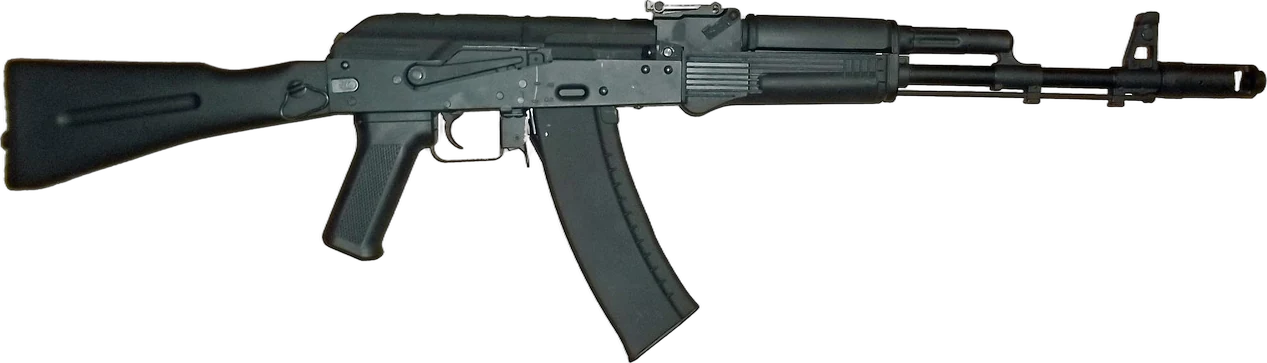
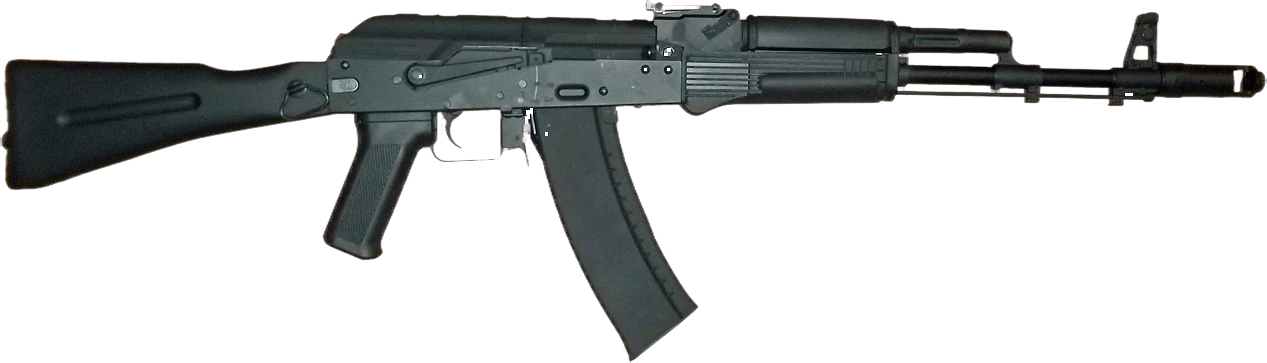
Publish portfolio

diff --git a/js/main.js b/js/main.js
@@ -311,10 +311,10 @@ async function typeLetter(span, ch, final = false) {
 }
 
 /* real AK-47 (Pixabay 872500, background removed), facing right; the muzzle sits 22.3% down the image */
-const RIFLE = { src: 'images/rifle.webp', aspect: 3.49, muzzleY: 0.223 };
-function flashAt(parent, x, y, dir) {
+const RIFLE = { src: 'images/rifle.webp', aspect: 3.49, muzzle: [0.985, 0.223], grip: [0.30, 0.55] };   // fractions of the image box
+function flashAt(parent, x, y, deg) {          // deg: direction the shot travels (0 = right, -90 = up)
   const f = document.createElement('i'); f.className = 'gun-flash'; parent.appendChild(f);
-  gsap.set(f, { left: x, top: y, xPercent: -50, yPercent: -50, rotation: dir < 0 ? 180 : 0 });
+  gsap.set(f, { left: x, top: y, xPercent: -50, yPercent: -50, rotation: deg });
   gsap.fromTo(f, { scale: 0.3, opacity: 1 }, { scale: 1.5, opacity: 0, duration: 0.2, ease: 'power2.out', onComplete: () => f.remove() });
 }
 
@@ -349,35 +349,49 @@ async function runLoader() {
   const fs = parseFloat(getComputedStyle(word).fontSize), ir = chs[3].getBoundingClientRect(), mob = innerWidth < 761;
   const capBottom = ir.top + ir.height / 2 + fs * 0.35;              // Bebas caps are ~0.7em tall
   const gunW = Math.min(fs * (mob ? 3.2 : 2.3), innerWidth * (mob ? 0.62 : 0.5)), gunH = gunW / RIFLE.aspect;
-  const gx = ir.left + ir.width / 2, gy = capBottom + fs * 0.2 + gunH / 2;
+  // the rifle turns about its grip (like a shooter would); O = the grip's screen point, under the I
+  const [pgx, pgy] = RIFLE.grip, Ox = ir.left + ir.width / 2, Oy = capBottom + fs * 0.25 + gunH * pgy;
+  const gx = Ox + (0.5 - pgx) * gunW, gy = Oy + (0.5 - pgy) * gunH;   // box centre that puts the grip on O
   const gun = document.createElement('div'); gun.className = 'gun';
   gun.innerHTML = `<img src="${RIFLE.src}" alt="" width="1267" height="363">`; gun.style.width = gunW + 'px';
   loader.appendChild(gun);
-  gsap.set(gun, { xPercent: -50, yPercent: -50, x: gx, y: -gunH * 2, rotation: -22 });
+  gsap.set(gun, { xPercent: -50, yPercent: -50, transformOrigin: `${pgx * 100}% ${pgy * 100}%`, x: gx, y: -gunH * 2, rotation: -22 });
   await gsap.to(gun, { y: gy, rotation: 0, duration: 0.6, ease: 'power2.in' });          // falls
   gsap.fromTo(loader, { y: 8 }, { y: 0, duration: 0.25, ease: 'power3.out' });
   await gsap.to(gun, { keyframes: [{ y: gy - gunH * 0.35, rotation: 4, duration: 0.13, ease: 'power2.out' }, { y: gy, rotation: 0, duration: 0.2, ease: 'bounce.out' }] });
+  const D2R = Math.PI / 180;
+  const ml = [(RIFLE.muzzle[0] - pgx) * gunW, (RIFLE.muzzle[1] - pgy) * gunH];       // muzzle relative to the grip, unturned
+  // aim: rotate about the grip so the barrel line (ml[1] above the grip) runs through letter i, then fire it out of the muzzle
   const fire = async (i, dir) => {
-    const gr = gun.getBoundingClientRect(), mx = dir > 0 ? gr.right - gr.width * 0.02 : gr.left + gr.width * 0.02, my = gr.top + gr.height * RIFLE.muzzleY;
-    const s = chs[i], r = s.getBoundingClientRect();
+    const s = chs[i], r = s.getBoundingClientRect(), tx = r.left + r.width / 2 - Ox, ty = r.top + r.height / 2 - Oy;
+    const dist = Math.hypot(tx, ty), off = -ml[1];
+    const th = Math.atan2(ty, tx) / D2R + dir * Math.asin(Math.min(1, off / dist)) / D2R;   // shot direction
+    const rot = ((dir > 0 ? th : th - 180) + 540) % 360 - 180;
+    await gsap.to(gun, { rotation: rot, duration: 0.13, ease: 'power2.out' });
+    const c = Math.cos(rot * D2R), n = Math.sin(rot * D2R), lx = dir * ml[0], ly = ml[1];
+    const mx = Ox + lx * c - ly * n, my = Oy + lx * n + ly * c;
     s.style.opacity = 1; Sound.type();
-    flashAt(loader, mx, my, dir);
-    gsap.fromTo(gun, { x: gx - dir * gunW * 0.06, rotation: -dir * 4 }, { x: gx, rotation: 0, duration: 0.24, ease: 'power3.out' });   // recoil
+    flashAt(loader, mx, my, th);
+    const k = gunW * 0.04, ta = th * D2R;
+    gsap.fromTo(gun, { x: gx - Math.cos(ta) * k, y: gy - Math.sin(ta) * k, rotation: rot - dir * 3 }, { x: gx, y: gy, rotation: rot, duration: 0.24, ease: 'power3.out' });   // recoil
     gsap.fromTo(loader, { x: rand(-6, 6), y: rand(-5, 5) }, { x: 0, y: 0, duration: 0.2, ease: 'power3.out' });                        // shake
     await gsap.fromTo(s, { x: mx - (r.left + r.width / 2), y: my - (r.top + r.height / 2), scaleX: 1.8, scaleY: 0.5, filter: 'blur(5px)' },
       { x: 0, y: 0, scaleX: 1, scaleY: 1, filter: 'blur(0px)', duration: 0.2, ease: 'power4.out' });
     gsap.fromTo(s, { filter: 'brightness(2.4)' }, { filter: 'brightness(1)', duration: 0.35 });
     await wait(0.07);
   };
-  await gsap.to(gun, { scaleX: -1, duration: 0.22, ease: 'power2.inOut' });               // face left
+  await gsap.to(gun, { scaleX: -1, duration: 0.22, ease: 'power2.inOut' });               // turn left (about the grip)
   for (const i of [0, 1, 2]) await fire(i, -1);
-  await gsap.to(gun, { scaleX: 1, duration: 0.24, ease: 'power2.inOut' });                // face right
+  await gsap.to(gun, { scaleX: 1, rotation: 0, duration: 0.26, ease: 'power2.inOut' });   // turn right
   for (const i of [7, 6, 5, 4]) await fire(i, 1);
-  // the blaster stands up and becomes the real I
-  const ir2 = chs[3].getBoundingClientRect();
-  await gsap.to(gun, { x: ir2.left + ir2.width / 2, y: ir2.top + ir2.height / 2, rotation: -90, scaleX: (fs * 0.72) / gunW, scaleY: (fs * 0.72) / gunW * 0.8, duration: 0.42, ease: 'power3.inOut' });
+  // the rifle stands up (muzzle up), shrinks into the I's slot and becomes the real I
+  const ir2 = chs[3].getBoundingClientRect(), icx = ir2.left + ir2.width / 2, icy = ir2.top + ir2.height / 2;
+  const sx = (fs * 0.72) / gunW, sy = sx * 0.8;
+  // origin at the grip, rotation -90 maps (u,v) -> (v,-u): solve the box translate so the rifle's visual centre sits on the I
+  const fx = icx + (0.5 - pgx) * gunW - (0.5 - pgy) * gunH * sy, fy = icy + (0.5 - pgy) * gunH + (0.5 - pgx) * gunW * sx;
+  await gsap.to(gun, { x: fx, y: fy, rotation: -90, scaleX: sx, scaleY: sy, duration: 0.42, ease: 'power3.inOut' });
   chs[3].style.opacity = 1; Sound.type();
-  flashAt(loader, ir2.left + ir2.width / 2, ir2.top + ir2.height / 2, 1);
+  flashAt(loader, icx, icy, -90);
   gsap.to(gun, { opacity: 0, duration: 0.16, onComplete: () => gun.remove() });
   await gsap.fromTo(chs[3], { filter: 'brightness(3)', scale: 1.25 }, { filter: 'brightness(1)', scale: 1, duration: 0.4, ease: 'power3.out' });
   await wait(0.35);

diff --git a/index.html b/index.html
@@ -14,7 +14,7 @@
 <link rel="preconnect" href="https://fonts.googleapis.com">
 <link rel="preconnect" href="https://fonts.gstatic.com" crossorigin>
 <link href="https://fonts.googleapis.com/css2?family=Archivo:wdth,wght@62..125,100..900&family=Geist:wght@300..700&family=Geist+Mono:wght@400;500&family=Instrument+Serif:ital@0;1&family=Bebas+Neue&display=swap" rel="stylesheet">
-<link rel="stylesheet" href="css/style.css?v=11">
+<link rel="stylesheet" href="css/style.css?v=12">
 <script type="importmap">{"imports":{"three":"https://cdn.jsdelivr.net/npm/three@0.169.0/build/three.module.js"}}</script>
 </head>
 <body class="is-loading">
@@ -203,6 +203,6 @@
 <script src="https://cdnjs.cloudflare.com/ajax/libs/gsap/3.12.5/gsap.min.js"></script>
 <script src="https://cdnjs.cloudflare.com/ajax/libs/gsap/3.12.5/ScrollTrigger.min.js"></script>
 <script src="https://unpkg.com/lenis@1.1.13/dist/lenis.min.js"></script>
-<script type="module" src="js/main.js?v=13"></script>
+<script type="module" src="js/main.js?v=15"></script>
 </body>
 </html>

diff --git a/css/style.css b/css/style.css
@@ -286,6 +286,6 @@ img{display:block;max-width:100%}
 /* intro blaster */
 .gun{position:absolute;left:0;top:0;z-index:3;pointer-events:none;will-change:transform}
 .gun img{display:block;width:100%;height:auto;
-  filter:brightness(1.9) contrast(1.15) drop-shadow(0 0 1px rgba(255,255,255,.75)) drop-shadow(0 0 10px rgba(255,255,255,.18)) drop-shadow(0 10px 24px rgba(0,0,0,.8))}
+  filter:brightness(1.12) drop-shadow(0 0 1px rgba(255,255,255,.4)) drop-shadow(0 0 18px rgba(255,255,255,.1))}
 .gun-flash{position:absolute;left:0;top:0;z-index:4;width:clamp(40px,5vw,90px);height:clamp(22px,2.6vw,46px);border-radius:50%;pointer-events:none;
   background:radial-gradient(ellipse at 30% 50%,#fff 0,#ffe0c2 16%,#ff9a3c 38%,rgba(255,122,26,.5) 55%,rgba(255,122,26,0) 72%);mix-blend-mode:screen}
